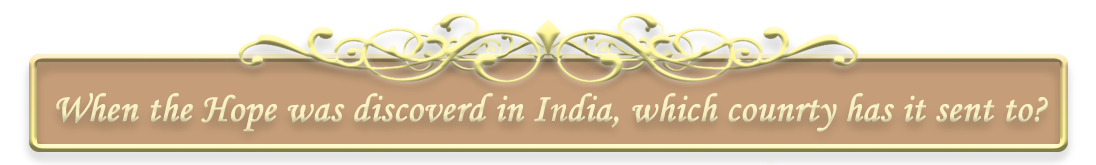
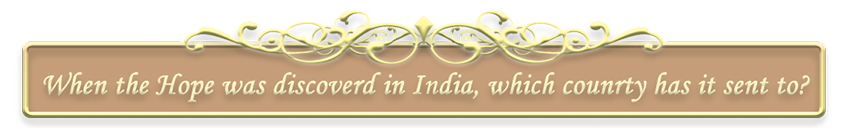
Changed question bar layout

Changed region(s): [[0.7981, 0.3125, 0.9823, 0.3438], [0.0307, 0.3125, 0.2149, 0.3438]]

diff --git a/app/css/game.css b/app/css/game.css
@@ -584,8 +584,8 @@
 }
 
 .questionimg{
-    height: 200px;
-    width: 847px;
+    height: 100%;
+    width: 100%;
 }
 
 #checkinput{
